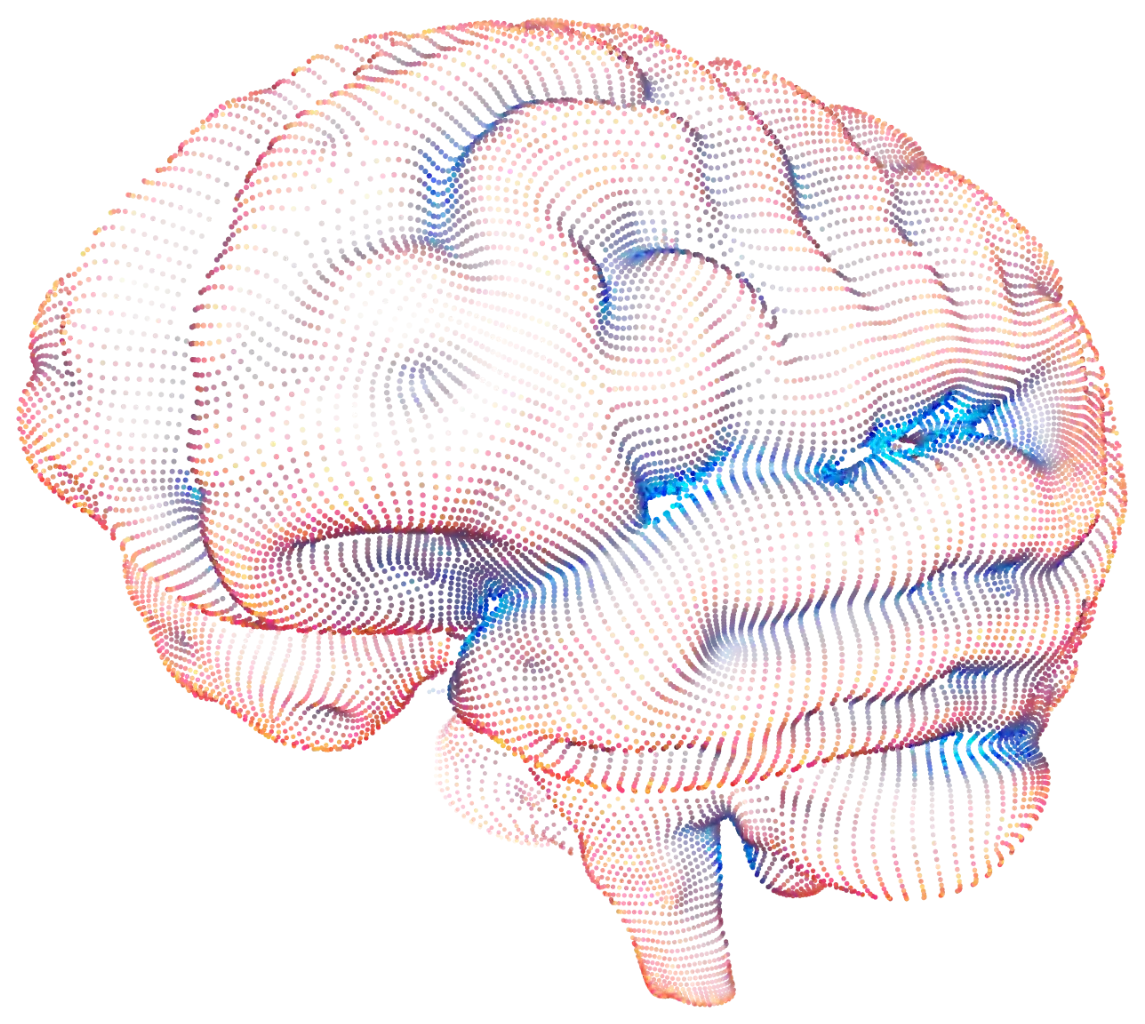
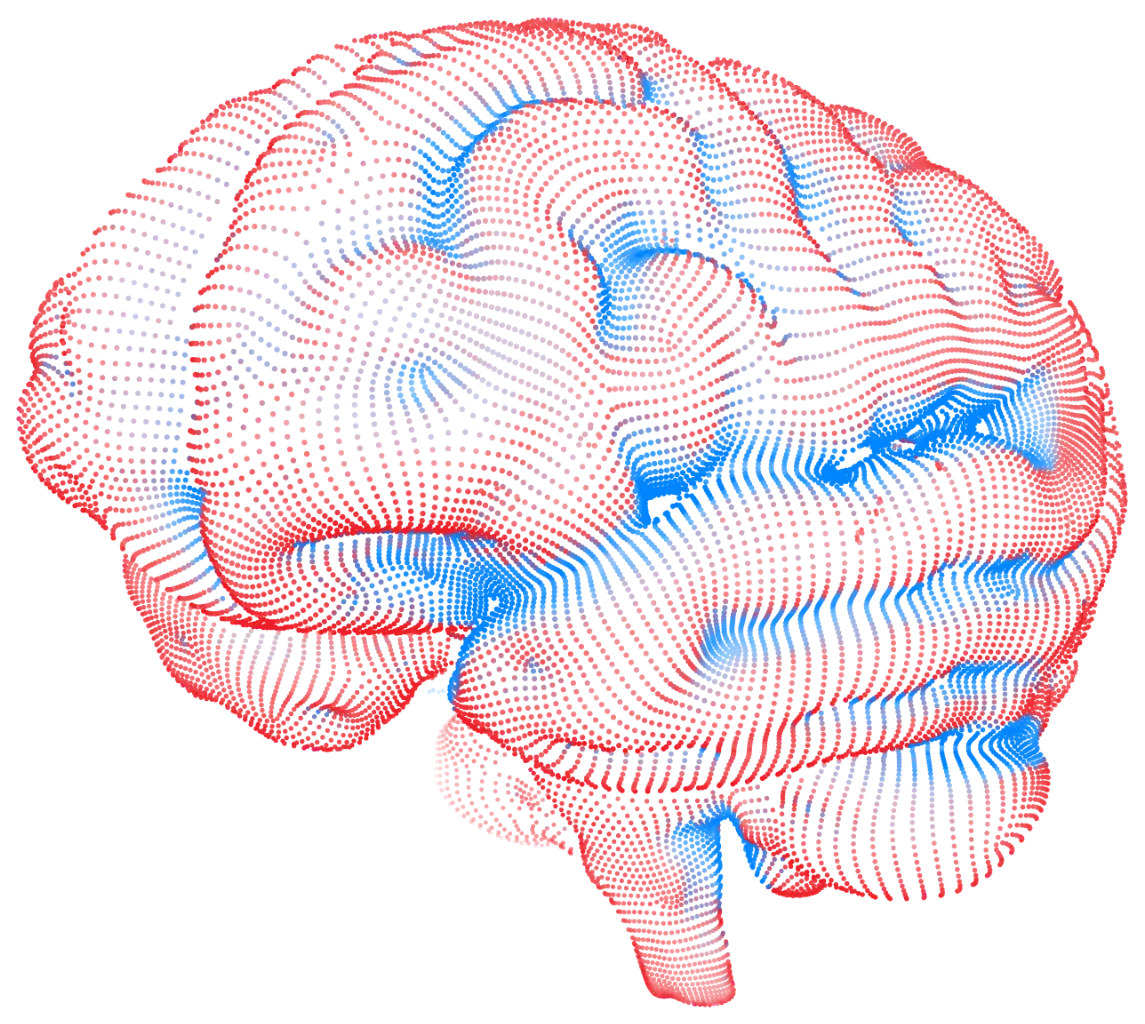
sfn-2026: recolor the hero brain in Biotium red and blue, drop the progress bar sheen
Map the brain's warm dots to Biotium red (#ED1C24) and its cool fold
dots to Biotium blue (#0084FF), keeping the pale highlights as tints.
Remove the white radial glow at the tip of the scroll progress bar on
every SfN page, including the HubSpot file (ASCB never had it).

Claude-Session: https://claude.ai/code/session_015F67Xr9TmwGkWLpcsYFnWw

Changed region(s): [[0.0, 0.0, 1.0, 1.0]]

diff --git a/sfn-2026/hubspot/sfn-2026-paste-into-design-manager.html b/sfn-2026/hubspot/sfn-2026-paste-into-design-manager.html
@@ -108,10 +108,6 @@ label: Biotium – SfN 2026 Landing Page
       z-index: 200; transition: width 0.08s linear;
       pointer-events: none;
     }
-    #scroll-progress::after {
-      content: ""; position: absolute; right: 0; top: 0; bottom: 0; width: 12px;
-      background: radial-gradient(circle, rgba(255,255,255,0.95) 0%, rgba(255,255,255,0) 75%);
-    }
 
     /* Sticky header elevation on scroll — subtle glass */
     #site-header {

diff --git a/sfn-2026/GlassVariant.dc.html b/sfn-2026/GlassVariant.dc.html
@@ -103,10 +103,6 @@
       z-index: 200; transition: width 0.08s linear;
       pointer-events: none;
     }
-    #scroll-progress::after {
-      content: ""; position: absolute; right: 0; top: 0; bottom: 0; width: 12px;
-      background: radial-gradient(circle, rgba(255,255,255,0.95) 0%, rgba(255,255,255,0) 75%);
-    }
 
     /* Sticky header elevation on scroll — subtle glass */
     #site-header {

diff --git a/sfn-2026/Main.dc.html b/sfn-2026/Main.dc.html
@@ -103,10 +103,6 @@
       z-index: 200; transition: width 0.08s linear;
       pointer-events: none;
     }
-    #scroll-progress::after {
-      content: ""; position: absolute; right: 0; top: 0; bottom: 0; width: 12px;
-      background: radial-gradient(circle, rgba(255,255,255,0.95) 0%, rgba(255,255,255,0) 75%);
-    }
 
     /* Sticky header elevation on scroll — subtle glass */
     #site-header {

diff --git a/sfn-2026/QuietFieldVariant.dc.html b/sfn-2026/QuietFieldVariant.dc.html
@@ -102,10 +102,6 @@
       z-index: 200; transition: width 0.08s linear;
       pointer-events: none;
     }
-    #scroll-progress::after {
-      content: ""; position: absolute; right: 0; top: 0; bottom: 0; width: 12px;
-      background: radial-gradient(circle, rgba(255,255,255,0.95) 0%, rgba(255,255,255,0) 75%);
-    }
 
     /* Sticky header elevation on scroll — subtle glass */
     #site-header {

diff --git a/sfn-2026/BrainVariant.dc.html b/sfn-2026/BrainVariant.dc.html
@@ -90,10 +90,6 @@
       z-index: 200; transition: width 0.08s linear;
       pointer-events: none;
     }
-    #scroll-progress::after {
-      content: ""; position: absolute; right: 0; top: 0; bottom: 0; width: 12px;
-      background: radial-gradient(circle, rgba(255,255,255,0.95) 0%, rgba(255,255,255,0) 75%);
-    }
 
     /* Sticky header elevation on scroll — subtle glass */
     #site-header {

diff --git a/sfn-2026/README.md b/sfn-2026/README.md
@@ -13,7 +13,7 @@ Design source for Biotium's booth landing page at Neuroscience 2026 (SfN), Nov 1
 ## Assets
 
 - `neuron-antibody-hero.webp`, `neuron-antibody-hero-dark.webp`, `minimab-hero.jpg` - hero imagery.
-- `hero-brain.webp` - transparent dot-particle brain for the Quiet Field hero.
+- `hero-brain.webp` - transparent dot-particle brain in Biotium red and blue for the Quiet Field hero.
 - `biotium-choice-icon.svg` - Biotium Choice badge.
 - `tshirts.webp` - show merch photo.
 
